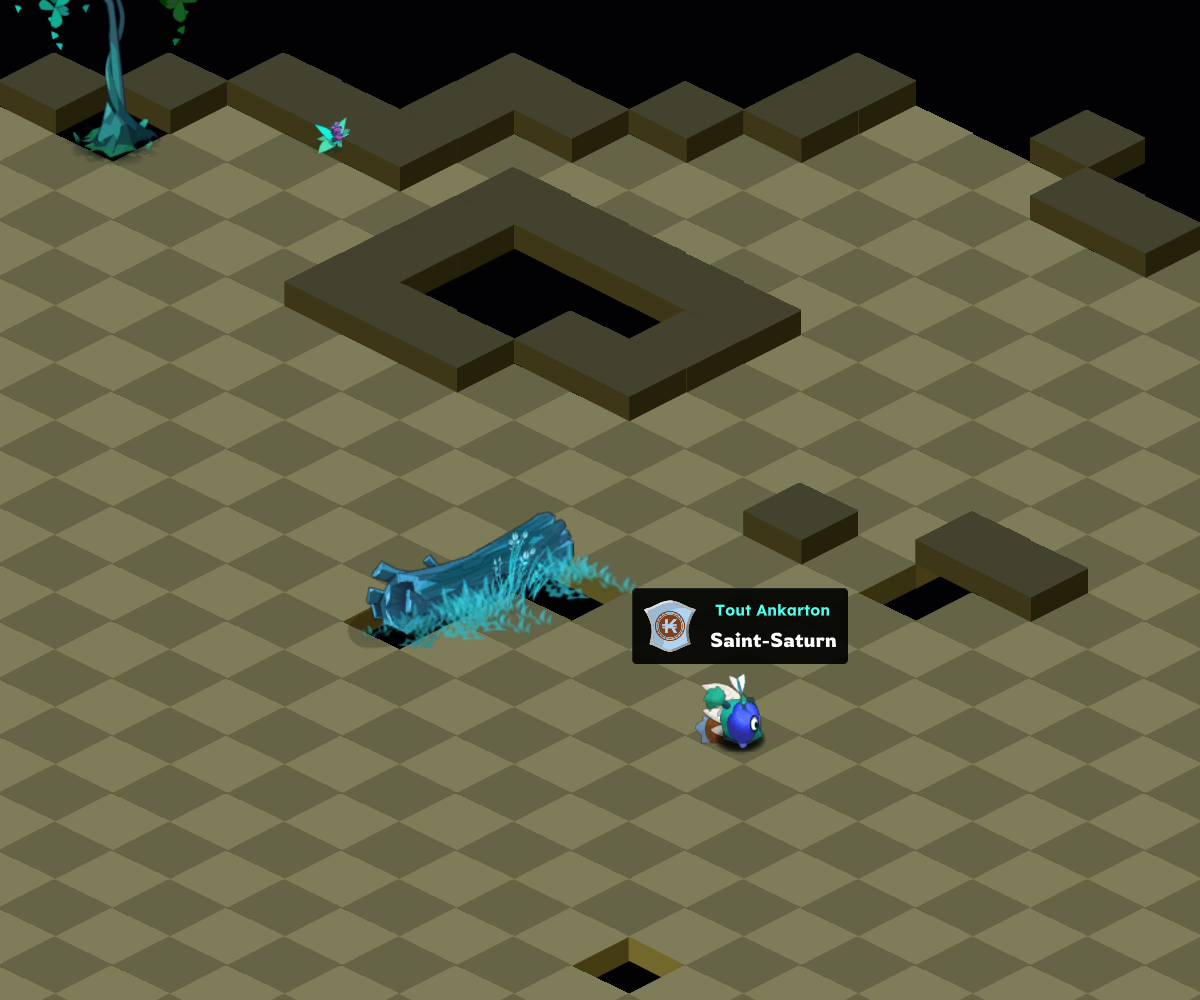
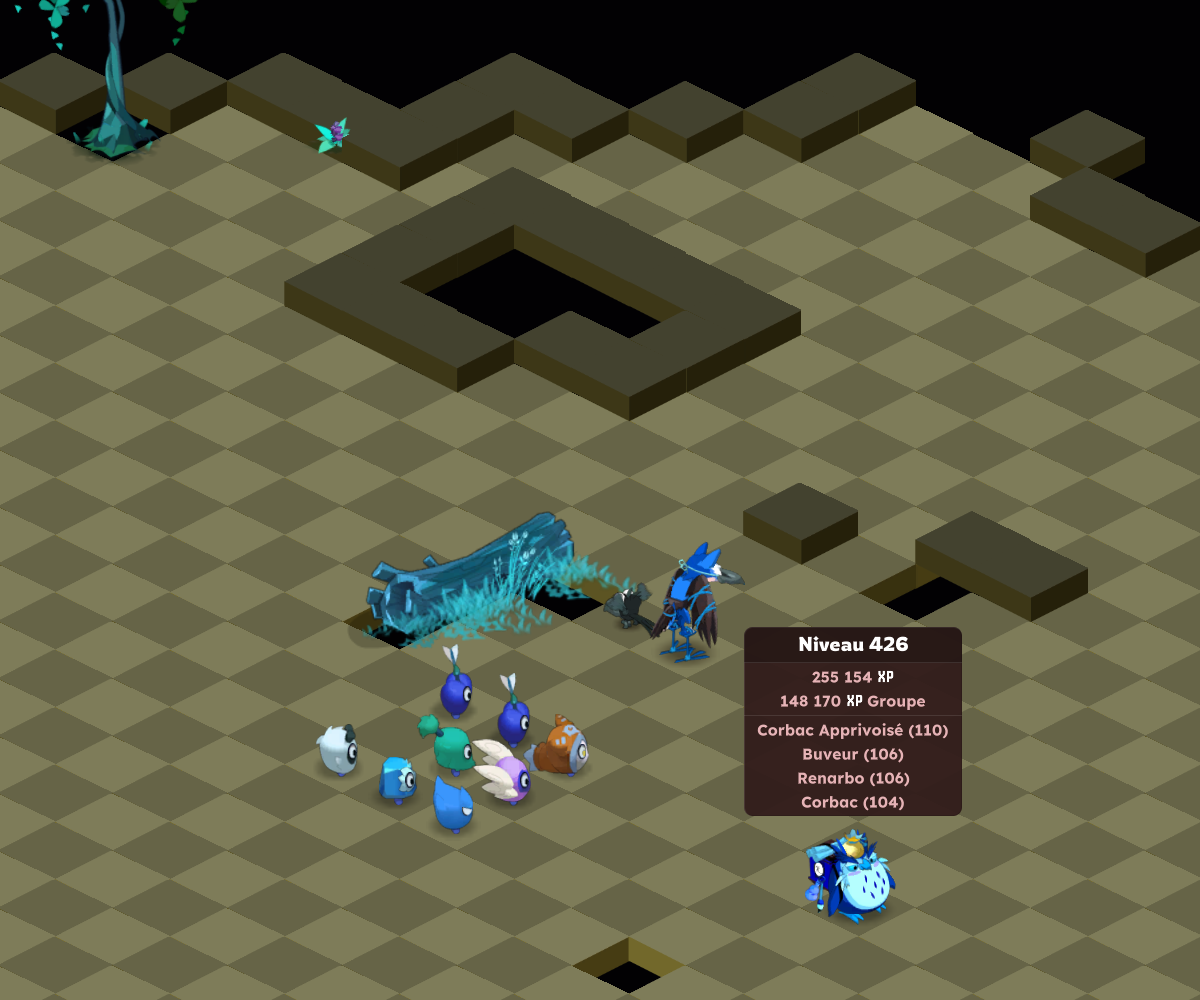
Amelioration detection mob et map

Changed region(s): [[0.4933, 0.527, 0.8017, 0.93], [0.2467, 0.651, 0.4933, 0.837]]

diff --git a/kou.py b/kou.py
@@ -7,9 +7,10 @@ import pyautogui
 import keyboard
 import pytesseract
 import window
+import difflib
 
 # Charger la configuration
-with open("config/zone/topaze.json", "r") as file:
+with open("config/zone/topaze.json", "r", encoding="utf-8") as file:
     config = json.load(file)
 
 monster_colors = config["monsterColors"]
@@ -133,7 +134,6 @@ def capture_screen_for_combat():
 
     # Capture d'écran dans la zone réduite
     screenshot = pyautogui.screenshot(region=(start_x, start_y, capture_width, capture_height))
-    screenshot.save("screenshot_combat.png")  # Sauvegarder la capture pour vérification
     return cv2.cvtColor(np.array(screenshot), cv2.COLOR_RGB2BGR)
 
 
@@ -151,6 +151,77 @@ def detect_combat():
 
     # Si des correspondances sont trouvées, cela signifie qu'un combat est lancé
     return len(locations[0]) > 0
+
+def correct_map_name(detected_name, allowed_maps):
+    """Corrige le nom de la map détectée en trouvant la plus proche dans la liste des maps valides."""
+    closest_match = difflib.get_close_matches(detected_name, allowed_maps, n=1, cutoff=0.6)
+    return closest_match[0] if closest_match else detected_name
+
+def get_current_map(allowed_maps):
+    """Utilise OCR pour lire le nom de la map en haut à gauche de l'écran avec amélioration de l'image."""
+    screen_width, screen_height = pyautogui.size()
+
+    # Capturer une petite zone en haut à gauche pour obtenir le nom de la map
+    capture_width = 500  
+    capture_height = 50  
+    start_x = 10  
+    start_y = 70  
+
+    # Capture d'écran
+    screenshot = pyautogui.screenshot(region=(start_x, start_y, capture_width, capture_height))
+    screenshot_np = np.array(screenshot)
+    screenshot.save("current_map.png")
+
+    # Conversion en niveaux de gris
+    gray = cv2.cvtColor(screenshot_np, cv2.COLOR_RGB2GRAY)
+
+    # Appliquer un seuillage adaptatif pour améliorer le contraste
+    processed = cv2.adaptiveThreshold(gray, 255, cv2.ADAPTIVE_THRESH_GAUSSIAN_C, cv2.THRESH_BINARY, 11, 2)
+
+    # Sauvegarder l'image pour debug (optionnel)
+    cv2.imwrite("screenshot_map_processed.png", processed)
+
+    # OCR
+    map_text = pytesseract.image_to_string(processed, config="--psm 7").strip()
+    map_text = correct_map_name(map_text, allowed_maps)
+
+    return map_text
+
+
+
+def check_map_validity():
+    """Vérifie si la map actuelle est autorisée, sinon retourne à la position de départ."""
+    allowed_maps = config["allowedMaps"]
+    current_map = get_current_map(allowed_maps)
+    print("maps autorisés : " + str(allowed_maps))
+    print("current map : "  + str(current_map))
+    if current_map not in allowed_maps:
+        print(f"Map inconnue ({current_map}), retour à la map de départ.")
+        return_to_start()
+
+def travel(map):
+    with open("config/config.json", "r", encoding="utf-8") as file:
+        conf = json.load(file)
+
+    chat = conf["chat"]
+
+    time.sleep(1)
+    pyautogui.mouseDown(chat)
+    time.sleep(0.2)
+    pyautogui.mouseUp(chat)
+    time.sleep(0.5)
+    keyboard.write("/travel " + map)
+    time.sleep(0.5)
+    keyboard.press_and_release('enter')  # Premier appui
+    time.sleep(0.5)  # Attendre 0.5 seconde
+    keyboard.press_and_release('enter')  # Deuxième appui
+    time.sleep(10)
+
+def return_to_start():
+    """Effectue une série de déplacements pour revenir à la map initiale."""
+    start_path = config["start_map"]  # Une liste d'actions pour retourner (ex: ["left", "up", "right"])
+    travel(start_path)
+    print("Retour à la map de départ terminé.")
 
 def map_direction(direction):
     print("Moving " + str(direction).lower() + " !")
@@ -184,6 +255,7 @@ def main():
         conf = json.load(file)
     window.window(conf["character_name"])
     while not stop_script:
+        check_map_validity()
         # Vérifier si un combat est lancé
         if detect_combat():
             print("Combat détecté ! Le script est en pause...")
